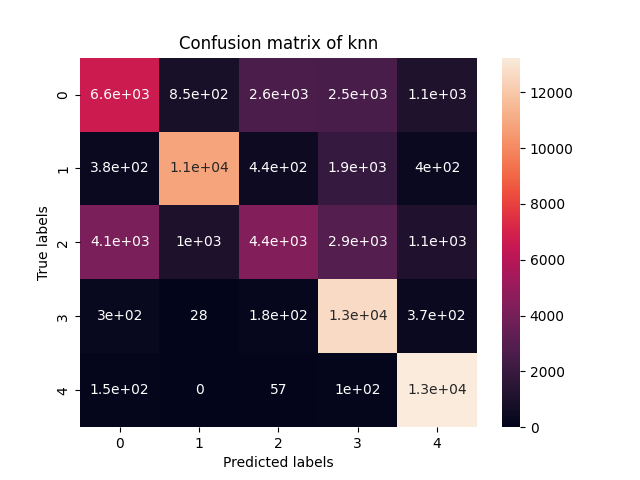
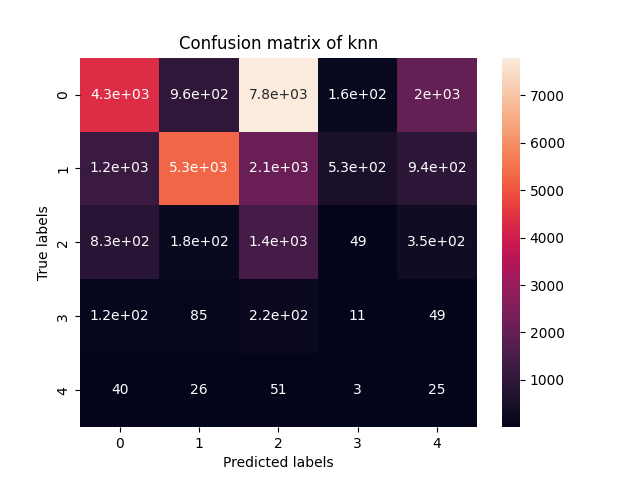
fix bug

diff --git a/data_preprocess.py b/data_preprocess.py
@@ -63,15 +63,13 @@ class DataPreparation:
         df_class_1_over = df_class_1.sample(count_max, replace=True)
         df_class_3_over = df_class_3.sample(count_max, replace=True)
         df_class_4_over = df_class_4.sample(count_max, replace=True)
-        # df_test_over = pd.concat([df_class_0, df_class_1_over], axis=0)
         data_final_over =  pd.concat([df_class_0_over, df_class_1_over,df_class_2,df_class_3_over,df_class_4_over])
 
         print("Oversampling data successful!")
-        print(data_final_over.head())
 
-        # count_class_0,count_class_1,count_class_2,count_class_3,count_class_4= data_final_over["state"].value_counts()
         print("="*150)
         print(data_final_over["state"].value_counts())
+        print("="*150)
 
 
         return data_final_over
@@ -220,7 +218,6 @@ class DataPreparation:
                 data.drop(["pledged"], axis=1, inplace=True)
             data_numerical = data.select_dtypes(exclude='object')
             data_numerical_scaled = pd.DataFrame(scaler.fit_transform(data_numerical), columns=data_numerical.columns)
-            print(data_numerical_scaled.columns)
             # data with categorical attributes
             data_categorical = data.select_dtypes(include='object').drop('state',axis=1)
             encoder = OneHotEncoder(handle_unknown="ignore")
@@ -229,11 +226,8 @@ class DataPreparation:
             # One hot encoded categorical data
             print(f"The following attributes have been one hot encoded: {data_categorical.columns.values}")
             data_categorical_encoded =pd.DataFrame(X_cat, columns= ["col"+str(i) for i in range(X_cat.shape[1])])
-
             # Merge the categorical and numerical data to form one big dataset
-
             main_data = pd.concat([data_numerical_scaled, data_categorical_encoded], axis=1)
-    
             #convert the target class or the class to be predicted into numerical form
             unique_target =  data["state"].unique()
             print(f"The unique element of the target class {unique_target}")
@@ -256,10 +250,10 @@ class DataPreparation:
         main_data,  target, data_numerical_scaled, data_categorical_encoded =self.recodage(data, binairy=binary,ignored_goal=ignored_goal, ignored_pledged=ignored_pledged)
         if categorical:
             return  data_categorical_encoded,target
-        elif numerical:
+        if numerical:
             return data_numerical_scaled,target
 
-        elif bayesian:
+        if bayesian:
             encoder = OrdinalEncoder()
             label_encoder = LabelEncoder()
             #data = self.nettoyage()
@@ -267,13 +261,14 @@ class DataPreparation:
             data.drop(["pledged"], axis=1, inplace=True)
             data.drop(["subcategory"], axis=1, inplace=True)
             data.drop(["state"], axis=1, inplace=True)
+            data.drop(["backers"], axis=1, inplace=True)
             # discretize the attributes age, backers, goal,duration with equal-intervaled bins
             age = pd.qcut(data['age'], q=10, precision=0)
-            backers = pd.qcut(data['backers'], q=3, precision=0)
+            # backers = pd.cut(data['backers'], 10, precision=0)
             goal = pd.qcut(data['goal'], q=10, precision=0)
             duration = pd.cut(data['duration'], 10, precision=0)
             data["age"] = age
-            data["backers"] = backers
+            # data["backers"] = backers
             data["goal"] = goal
             data["duration"] = duration
             data_encoded = encoder.fit_transform(data)
@@ -281,11 +276,10 @@ class DataPreparation:
             target_encoded = label_encoder.fit_transform(target)
             # print(label_encoder.inverse_transform(target_encoded))
             # print(data_final)
-
-
             return data_final, target_encoded
 
         else:
+           
             return main_data, target
          
 
@@ -305,25 +299,27 @@ class DataPreparation:
 
         '''
 
+        train, validate, test = np.split(data.sample(frac=1, random_state=42), [int(.8*len(data)), int(.9*len(data))])
+        train= self.data_augmenter(train)
+        print(train.head())
+        print(type(train))
+
+
         if categorical_data:
-            data_categorical, target = self.pretraitement(data, categorical=categorical_data,binary=binary, ignored_goal=ignored_goal,ignored_pledged=ignored_pledged)
-            # Split Train data and validation
-            X_train, X_valid, y_train,y_valid = train_test_split(data_categorical, target, test_size=0.1, random_state=42)
-            # 10 % of test data and 10% of valid data and 80 % of train data
-            X_train, X_test, y_train,y_test = train_test_split(X_train, y_train, test_size=0.1, random_state=42)
+            X_train, y_train = self.pretraitement(train, categorical=categorical_data,binary=binary, ignored_goal=ignored_goal,ignored_pledged=ignored_pledged)
+            X_valid, y_valid = self.pretraitement(validate, categorical=categorical_data,binary=binary, ignored_goal=ignored_goal,ignored_pledged=ignored_pledged)
+            X_test, y_test = self.pretraitement(test, categorical=categorical_data,binary=binary, ignored_goal=ignored_goal,ignored_pledged=ignored_pledged)
             return X_train, X_valid,X_test, y_train, y_valid,y_test
 
         elif numerical_data:
-            data_numerical_scaled, target = self.pretraitement(data, numerical=numerical_data,binary=binary, ignored_goal=ignored_goal,ignored_pledged=ignored_pledged)
-            X_train, X_valid, y_train,y_valid = train_test_split(data_numerical_scaled, target, test_size=0.1, random_state=42)
-            # 10 % of test data and 10% of valid data and 80 % of train data
-            X_train, X_test, y_train,y_test = train_test_split(X_train, y_train, test_size=0.1, random_state=42)
+            X_train, y_train = self.pretraitement(train, numerical=numerical_data,binary=binary, ignored_goal=ignored_goal,ignored_pledged=ignored_pledged)
+            X_valid, y_valid = self.pretraitement(validate,numerical=numerical_data,binary=binary, ignored_goal=ignored_goal,ignored_pledged=ignored_pledged)
+            X_test, y_test = self.pretraitement(test, numerical=numerical_data,binary=binary, ignored_goal=ignored_goal,ignored_pledged=ignored_pledged)
             return X_train, X_valid,X_test, y_train, y_valid,y_test
         elif bayesian:
-            data_categorical_bayes, target= self.pretraitement(data, bayesian=True)
-            X_train, X_valid, y_train,y_valid = train_test_split(data_categorical_bayes, target, test_size=0.1, random_state=42)
-            # 10 % of test data and 10% of valid data and 80 % of train data
-            X_train, X_test, y_train,y_test = train_test_split(X_train, y_train, test_size=0.1, random_state=42)
+            X_train, y_train = self.pretraitement(train, bayesian=True)
+            X_valid, y_valid = self.pretraitement(validate, bayesian=True)
+            X_test, y_test = self.pretraitement(test, bayesian=True)
             return X_train, X_valid,X_test, y_train, y_valid,y_test
 
         
@@ -348,7 +344,6 @@ class DataPreparation:
 
 
 def main_data_splitter(data, categorical = False, numerical=False, bayesian=False, binary=False,ignored_goal=False,ignored_pledged=False):
-
     '''
     Args: 
         - data: pandas DataFrame
@@ -359,17 +354,17 @@ def main_data_splitter(data, categorical = False, numerical=False, bayesian=Fals
         - ignored_goal(Boolean)
         - ignored_pledged(Boolean)
     Return:
-    - X_train
-    - X_valid
-    - X_test
-    - y_train 
-    - y_valid
-    - y_test
+        - X_train
+        - X_valid
+        - X_test
+        - y_train 
+        - y_valid
+        - y_test
     '''
-
     preparation = DataPreparation(data)
     data = preparation.nettoyage()
-    data = preparation.data_augmenter(data)
+
+
     if categorical:
         X_train, X_valid,X_test, y_train, y_valid,y_test = preparation.decoupage(data, categorical_data=categorical, binary=binary, ignored_goal=ignored_goal, ignored_pledged=ignored_pledged)
 
@@ -396,14 +391,44 @@ def main_data_splitter(data, categorical = False, numerical=False, bayesian=Fals
 
 
 
-X_train, X_valid,X_test, y_train, y_valid,y_test= main_data_splitter(data, bayesian=True)
+# X_train, X_valid,X_test, y_train, y_valid,y_test= main_data_splitter(data, bayesian=True)
 # X_train, X_valid,X_test, y_train, y_valid,y_test= main_data_splitter(data, numerical=True)
 # X_train, X_valid,X_test, y_train, y_valid,y_test= main_data_splitter(data, categorical=True)
 
-print(X_train)
-print(y_train)
+# print(X_train.values)
+# print(type(X_train))
+# print(y_train)
 
 # print(X_train)
+# scaler = StandardScaler()
 # m = DataPreparation(data)
 # data = m.nettoyage()
+# train, validate, test = np.split(data.sample(frac=1, random_state=42), [int(.8*len(data)), int(.9*len(data))])
+# data_numerical = train.select_dtypes(exclude='object')
+
+# data_numerical_scaled = pd.DataFrame(scaler.fit_transform(data_numerical), columns=data_numerical.columns)
+# print(data_numerical_scaled)
 # m.data_augmenter(data)
+
+
+# m = DataPreparation(data)
+# df = m.nettoyage()
+# train, validate, test = np.split(df.sample(frac=1, random_state=42), [int(.8*len(df)), int(.9*len(df))])
+# print(len(df))
+# print(len(train))
+# print(len(validate))
+# print(len(test))
+# print(type(df))
+# print(type(train))
+# m = DataPreparation(data)
+# data = m.nettoyage()
+# y = data["state"]
+# print(y)
+# X = data#data.drop("state", axis=1)
+# print(X)
+
+
+# X_train, X_valid, y_train, y_valid=train_test_split(X,y, test_size=0.2, random_state=42)
+
+# print(X_train)
+# print(type(X_train))

diff --git a/classifier.py b/classifier.py
@@ -2,15 +2,13 @@ from matplotlib import units
 # from sklearn.naive_bayes import GaussianNB
 from sklearn.naive_bayes import CategoricalNB
 from sklearn.neighbors import KNeighborsClassifier
-from sklearn.svm import LinearSVC, SVC
-from sklearn.linear_model import LogisticRegression
 from sklearn.utils.class_weight import compute_sample_weight
-
 from sklearn.metrics import confusion_matrix, classification_report
 import seaborn as sns
 import matplotlib.pyplot as plt
 from sklearn import tree
 from sklearn import svm
+import numpy as np
 
 
 
@@ -67,15 +65,13 @@ class Classifier:
 
     def naive_bayes_classifier(self):
         X_train, X_valid,X_test, y_train, y_valid,y_test= main_data_splitter(data, bayesian=True)
+
         naive = CategoricalNB()
         print("Training the naive bayes model in process...")
         naive.fit(X_train, y_train)
         print("Training terminated")
-
         y_pred_valid = naive.predict(X_valid)
-
         y_pred_test =  naive.predict(X_test)
-
 
         print('Accuracy of naive bayes classifier on training set: {:.2f}'
             .format(naive.score(X_train, y_train)))
@@ -99,8 +95,7 @@ class Classifier:
         knn.fit(X_train, y_train)
         print("Training terminated")
 
-        print("Training terminated")
-
+       
         y_pred_valid = knn.predict(X_valid)
 
         y_pred_test =  knn.predict(X_test)
@@ -142,8 +137,8 @@ class Classifier:
 model = Classifier()
 # model.svm_classifier(numerical=True,ignored_pledged=True)
 # # print("#"*150)
-model.naive_bayes_classifier()
-# print("#"*150)
-# model.knn_classifier(k=30,numerical_data=True, ignored_pledged=True)
-# print("#"*150)
-# model.decision_tree_classifier(numerical_data=True, ignored_pledged=True)
+#model.naive_bayes_classifier()
+print("#"*150)
+model.knn_classifier(k=10, ignored_pledged=True)
+print("#"*150)
+model.decision_tree_classifier(ignored_pledged=True)
